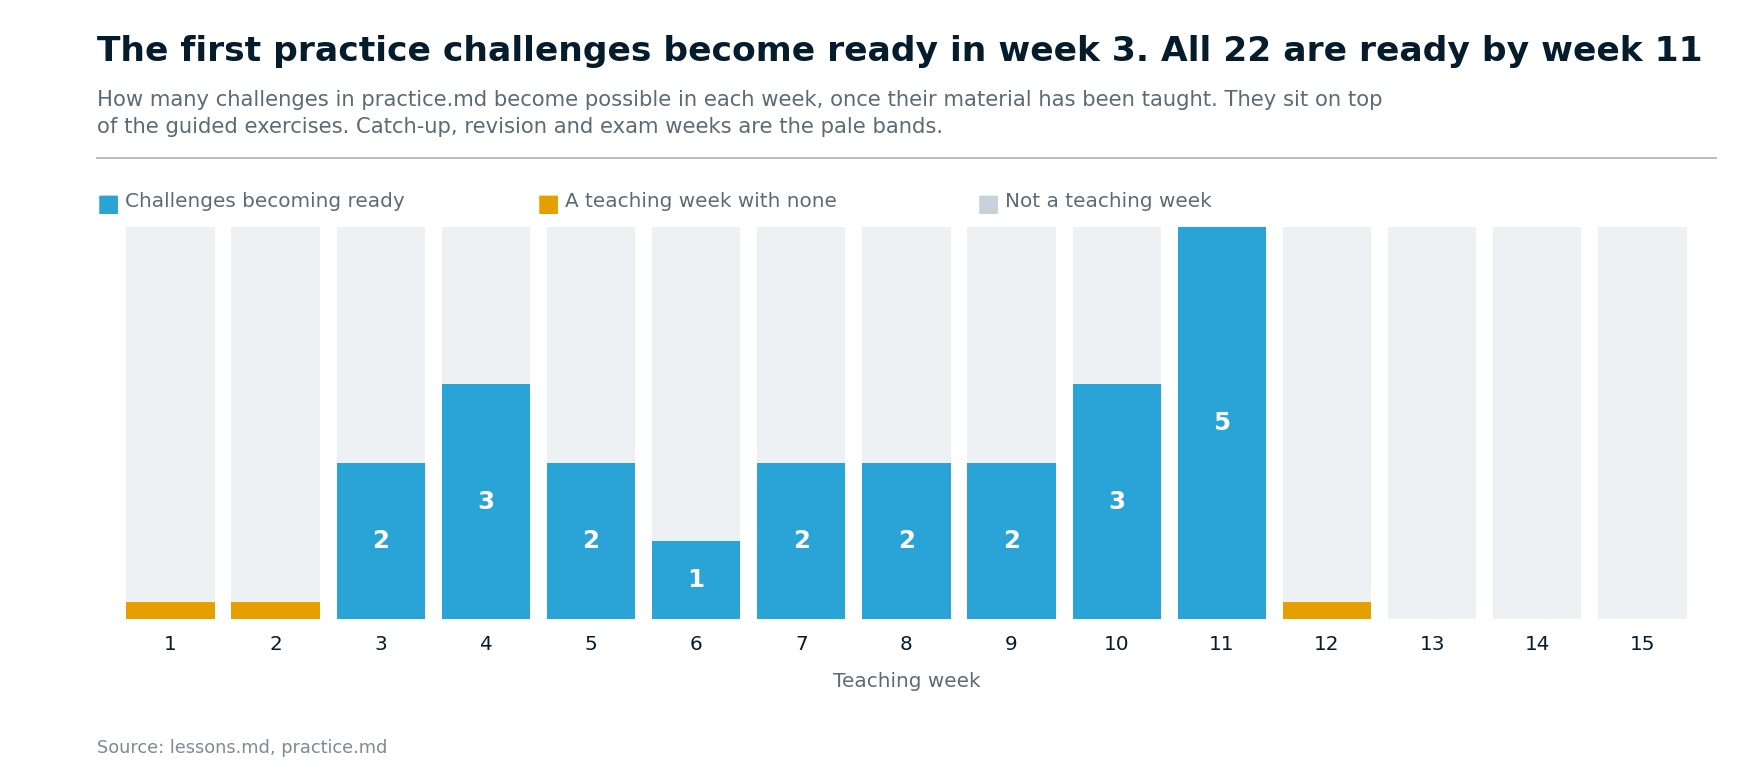
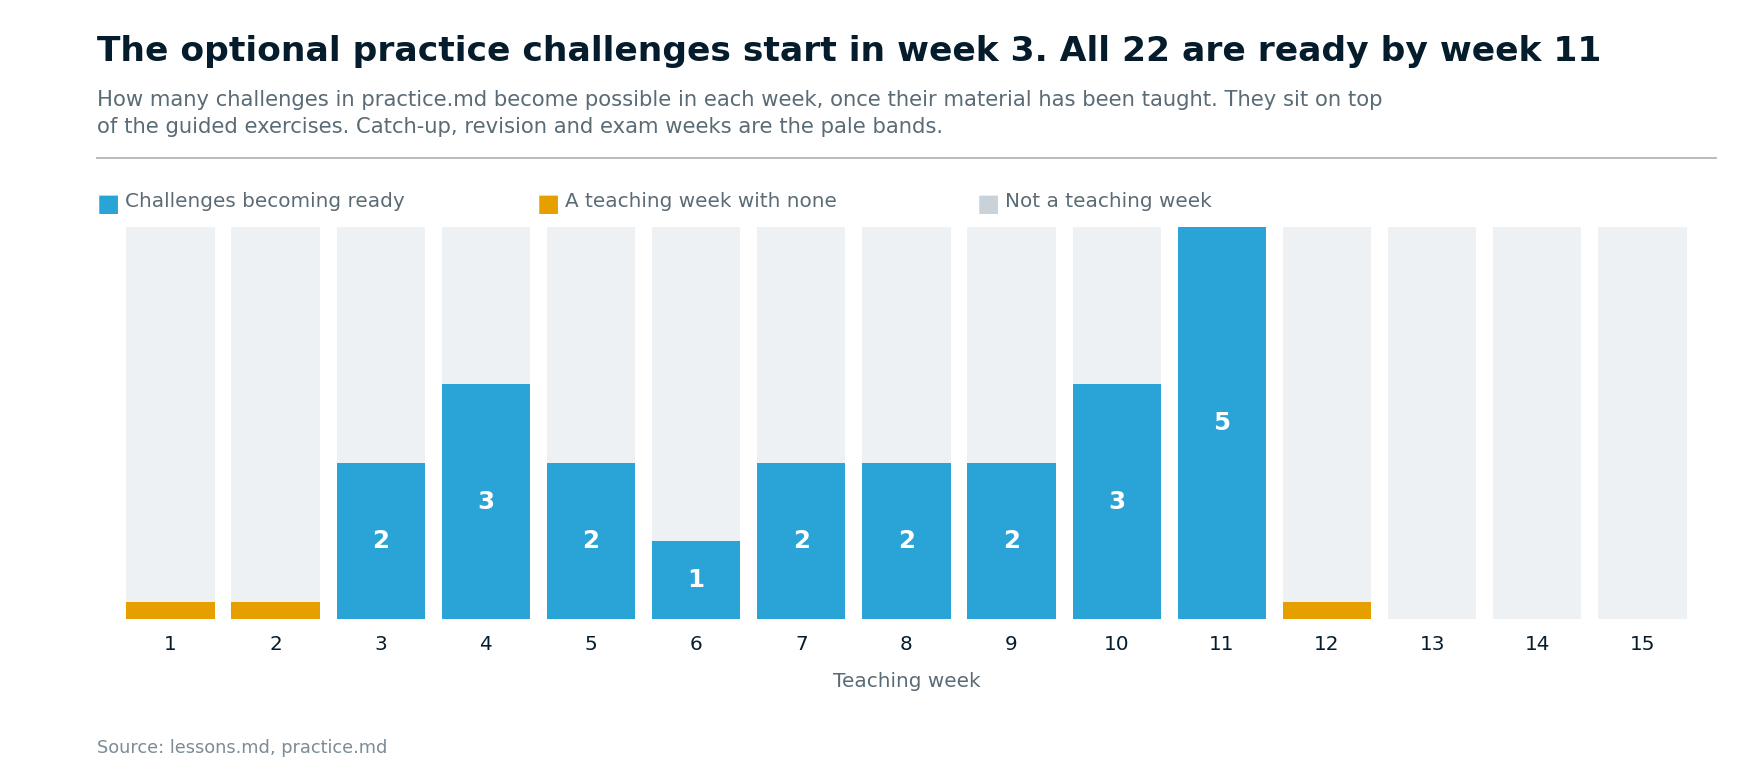
Say that the practice challenges are optional on the charts too
The charts are the first thing a visitor sees in the README, and two of them
described the challenges as though they were required work. A student landing
on the page could reasonably think 22 challenges are expected of them. The
word was already in the README table, in lessons.md and in practice.md, but
not on the charts themselves.

The title of the timing chart had to be reworded rather than extended. Titles
are drawn in one line and do not wrap, unlike the subtitle below them, so a
longer one runs off the canvas without matplotlib saying anything. That title
already ended at 0.964 of the 0.975 margin. Inserting the word took it to
1.061. It now reads "The optional practice challenges start in week 3", which
ends at 0.906.

The branch that draws the coverage chart while objectives are still uncovered
says optional as well. It does not render today, but it would have been wrong
the moment coverage slipped.

practice.md is titled for what it is. Additional said the challenges sit on
top of the guided exercises, which the preamble already explains. Optional
answers the question a student actually has.

Copilot-Session: 42281fb8-6781-4982-aa24-2cdbe7877579

Changed region(s): [[0.0938, 0.0306, 0.9688, 0.0918]]

diff --git a/README.md b/README.md
@@ -56,12 +56,12 @@ To read one of them:
 
 <picture>
   <source media="(prefers-color-scheme: dark)" srcset="images/03-when-you-can-practise-dark.png">
-  <img alt="The fifteen weeks in a row, with a bar in each for how many additional practice challenges become possible that week. The first two arrive in week 3, and every week from 4 to 11 adds more. Week 11 adds five, the most of any week. Weeks 1, 2 and 12 add none, and the last three weeks are catch-up, revision and the exam." src="images/03-when-you-can-practise-light.png">
+  <img alt="The fifteen weeks in a row, with a bar in each for how many optional practice challenges become possible that week. The first two arrive in week 3, and every week from 4 to 11 adds more. Week 11 adds five, the most of any week. Weeks 1, 2 and 12 add none, and the last three weeks are catch-up, revision and the exam." src="images/03-when-you-can-practise-light.png">
 </picture>
 
 <picture>
   <source media="(prefers-color-scheme: dark)" srcset="images/02-practice-coverage-by-topic-dark.png">
-  <img alt="A bar for each of the ten exam topics, showing how many of its objectives appear in the practice challenges. Every objective in every topic is covered. Essential tools is the largest topic at eleven, and operate running systems follows at ten. Objective 6.1 is practised for XFS and ext4 only, because neither course teaches how to make a VFAT file system." src="images/02-practice-coverage-by-topic-light.png">
+  <img alt="A bar for each of the ten exam topics, showing how many of its objectives appear in the optional practice challenges. Every objective in every topic is covered. Essential tools is the largest topic at eleven, and operate running systems follows at ten. Objective 6.1 is practised for XFS and ext4 only, because neither course teaches how to make a VFAT file system." src="images/02-practice-coverage-by-topic-light.png">
 </picture>
 
 I generated these from `coverage.md`, `lessons.md`, `objectives.md` and

diff --git a/practice.md b/practice.md
@@ -1,4 +1,4 @@
-# Additional practice challenges
+# Optional practice challenges
 
 The following challenges take the RHCSA Practice series that Tudor Raduta ran
 in the [Red Hat Learning Community][rhlc] as a starting point. It closed on
